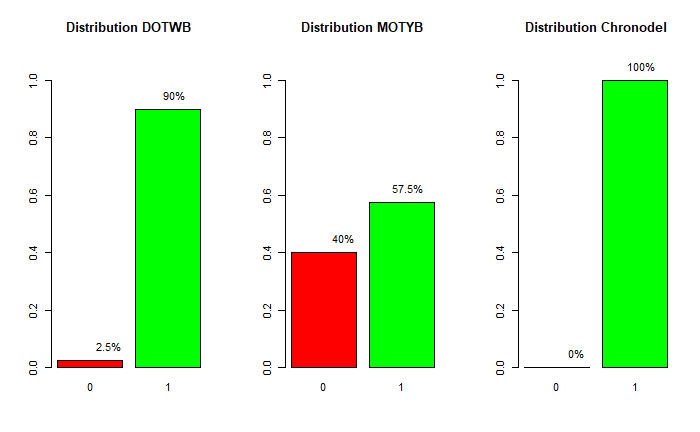
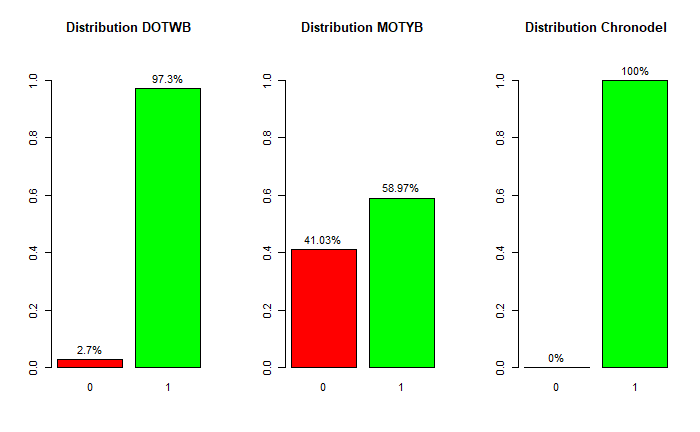
modifs

diff --git a/README.md b/README.md
@@ -9,25 +9,29 @@
 
 ## 1.1. Delirium
 
-Delirium is an acute clinical syndrome (ACS) that typically develops in older adults. It is characterized by disturbances in attention, awareness, and cognition, with a reduced ability to focus, sustain, or shift attention. It develops over a short period of time and tends to fluctuate throughout the day. The clinical presentation may vary, often including psychomotor and behavioral disturbances such as hyperactivity or hypoactivity, as well as alterations in sleep duration and architecture.(3)
+Delirium is an acute clinical syndrome (ACS) that typically develops in older adults. It is characterized by disturbances in attention, awareness, and cognition, with a reduced ability to focus, sustain, or shift attention. It develops over a short period of time and tends to fluctuate throughout the day. The clinical presentation may vary, often including psychomotor and behavioral disturbances such as hyperactivity or hypoactivity, as well as alterations in sleep duration and architecture.(1)
 
 The clinical features are defined by the DSM-5 as follows: a disturbance in attention (Criterion A); a rapid onset of symptoms (Criterion B); symptoms associated with an additional cognitive disturbance (Criterion C). These symptoms must not be better explained by a pre-existing neurocognitive disorder (NCD) or by a severely reduced level of arousal such as coma (Criterion D). There must also be evidence from the medical history, physical examination, or additional investigations supporting a direct medical cause, substance intoxication, medication use, or withdrawal (Criterion E).(2)
 
 ## 1.2. Chronodel presentation
 
-The aim of this study is to analyze data from the Chronodel test, which assesses the ability to perform a task within 30 seconds—specifically, counting from 0 to 30 in the correct order, without repetition and without skipping any numbers. The dataset includes a sample of participants (n = 43).
+The aim of this study is to analyze data from the **Chronodel test**, which assesses the ability to perform a task within **30 seconds—specifically**, counting from 0 to 30 in the correct order, without repetition and without skipping any numbers. The dataset includes a sample of participants (**n = 43**).
 
-The objectives were to evaluate the Chronodel test, describe the distribution of results, and compare its performance with two other tests assessing similar cognitive functions: Day Of The Week Backward *DOTWB* and Month Of The Year Backward *MOTYB*. (1)
+The study was **initially** designed to assess the diagnostic performance of the *Chronodel test*, including sensitivity, specificity, positive predictive value (PPV), and negative predictive value (NPV), and to compare its performance with two other tests assessing similar cognitive functions: *Day Of The Week Backward* (*DOTWB*) and *Month Of The Year Backward* (*MOTYB*). (3)
+
+As the study is still ongoing, a **preliminary analysis** of the available data was conducted to **explore** the distribution of results and the level of agreement between the three tests.
 
 ## 1.3. Methodological Adjustment: Change in Primary Objective
 
-**Initially**, sensitivity, specificity, positive predictive value, and negative predictive value were planned for the Chronodel test. **However**, due to a **low variability** in the results — with most participants scoring 1 (indicating success) — this analysis **was not appropriate**.
+However, due to a **low variability** in the results — with most participants scoring 1 (indicating success) — the initially planned diagnostic performance analyses were not appropriate.
 
-Therefore, the analysis plan was revised to focus on :
+Therefore, the analysis plan was revised to focus on:
 
 - **the percentage of success** for each test (*DOTWB*, *MOTYB*, *Chronodel*)
 - **the concordance** between tests
 - **the distribution** of results to assess variability and potential ceiling effects
+
+A small number of missing values were observed. As these were limited and not overlapping across variables, analyses were conducted using available data.
 
 # 2. Python Project
 
@@ -94,7 +98,7 @@ The Chronodel test shows a **perfect success rate (100%)**, which may indicate a
 
 The final figure presents the distribution of results across the three tests, in order to assess **variability** and **potential** ceiling effects.
 
-The Chronodel test shows a **highly skewed distribution**, with 100% of successful outcomes (1), **suggesting** a ceiling effect.
+The Chronodel test shows a **highly skewed distribution**, with 100% of successful outcomes, **suggesting** a ceiling effect.
 
 Ceiling effects may **limit** the **interpretability** of test scores when a task is too easy, leading to an accumulation of maximal scores and **reduced discriminative capacity** (4)
 
